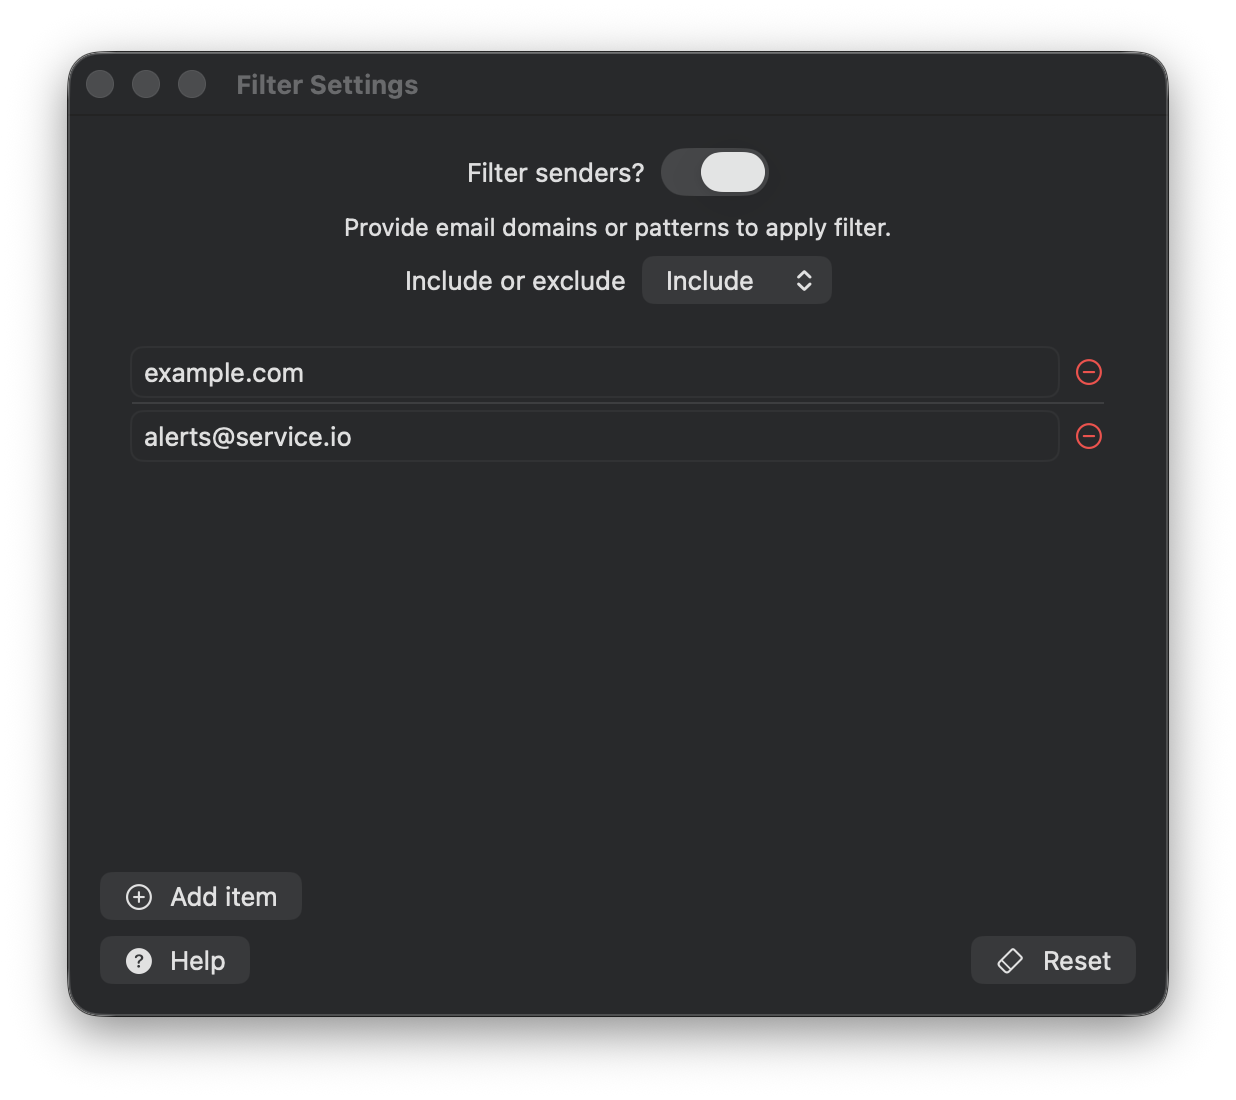
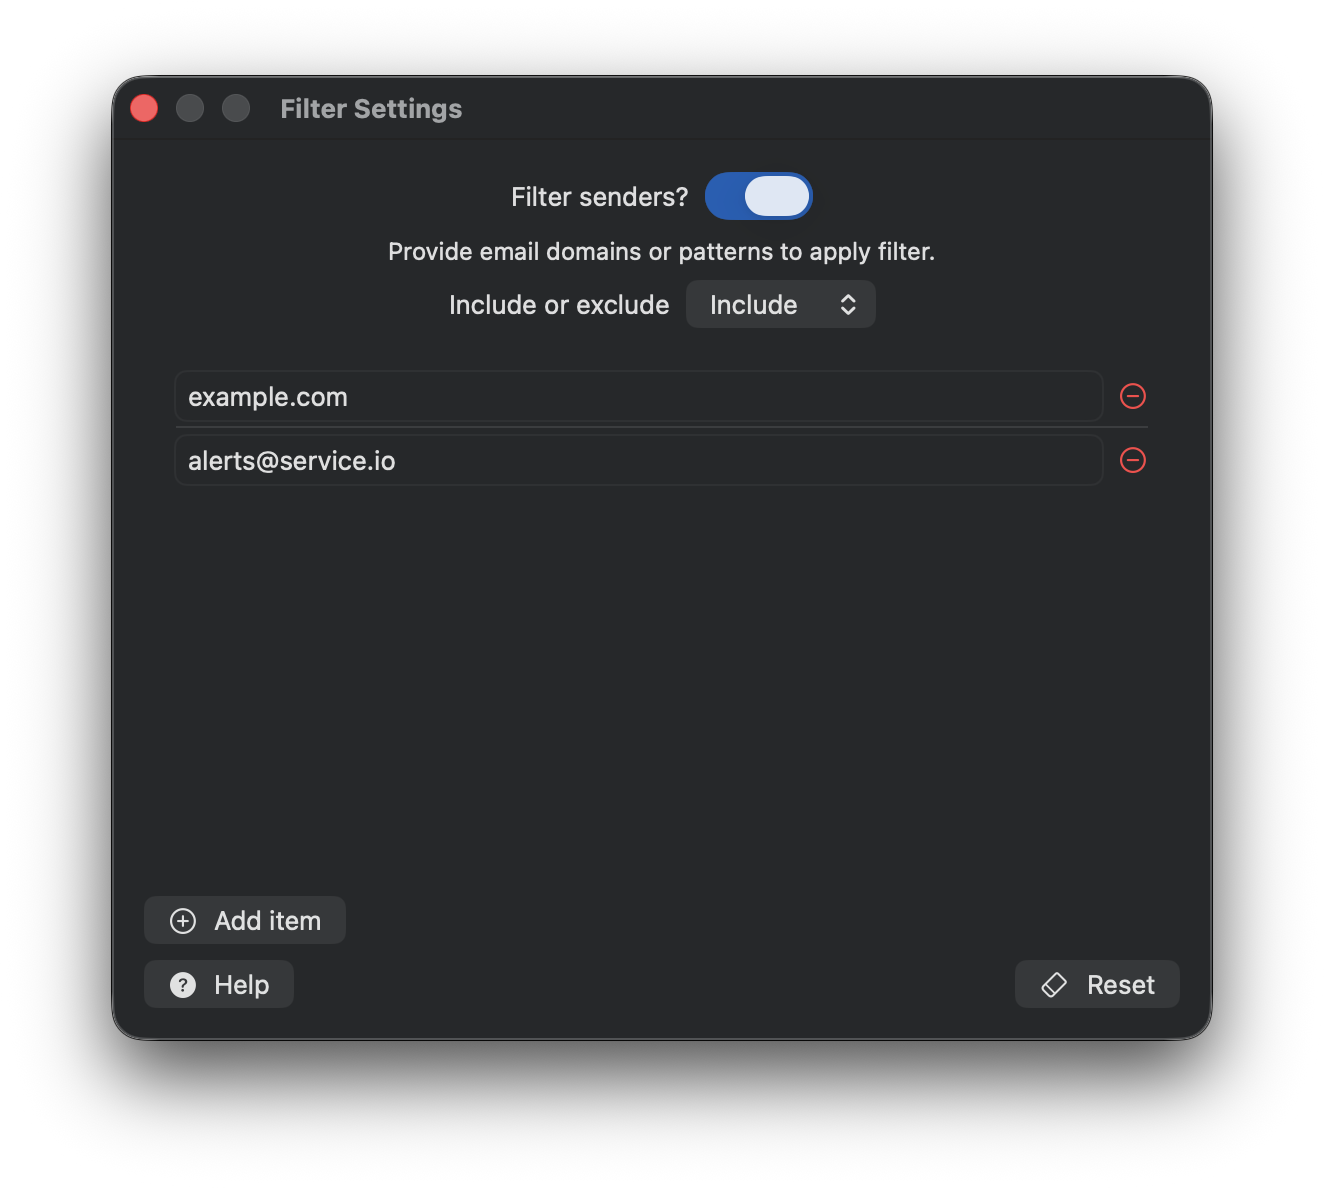
Updated Screenshots
Minor screenshot update following app refresh

diff --git a/index.html b/index.html
@@ -103,8 +103,8 @@
                 src="images/hero-status-dark-2026.png"
                 data-light-src="images/hero-status-light-2026.png"
                 data-dark-src="images/hero-status-dark-2026.png"
-                width="1016"
-                height="940"
+                width="1104"
+                height="1028"
                 alt="SentimentalMail status window on macOS showing current scan status, message counts, and quick actions"
                 loading="eager"
               />
@@ -171,11 +171,11 @@
               src="images/labels-settings-dark-2026.png"
               data-light-src="images/labels-settings-light-2026.png"
               data-dark-src="images/labels-settings-dark-2026.png"
-              alt="SentimentalMail metrics settings window with marker styles, score thresholds, and reset controls"
+              alt="SentimentalMail settings window with marker styles, score thresholds, and reset controls"
               loading="lazy"
               decoding="async"
-              width="1336"
-              height="1100"
+              width="1436"
+              height="1248"
             />
             <figcaption>Fine-tune marker styles, score thresholds, and scoring controls directly inside the app.</figcaption>
           </figure>
@@ -188,8 +188,8 @@
               alt="SentimentalMail stats window showing monthly positive, neutral, and negative message counts"
               loading="lazy"
               decoding="async"
-              width="1936"
-              height="1440"
+              width="2024"
+              height="1528"
             />
             <figcaption>Review monthly message trends with a date-range picker and clear positive, neutral, and negative counts.</figcaption>
           </figure>
